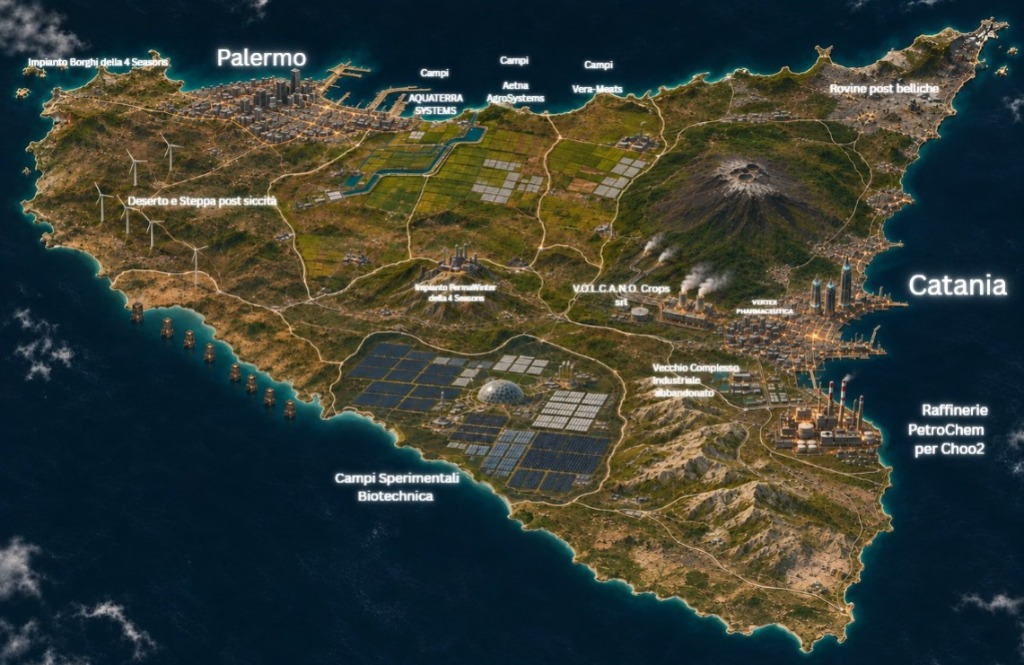
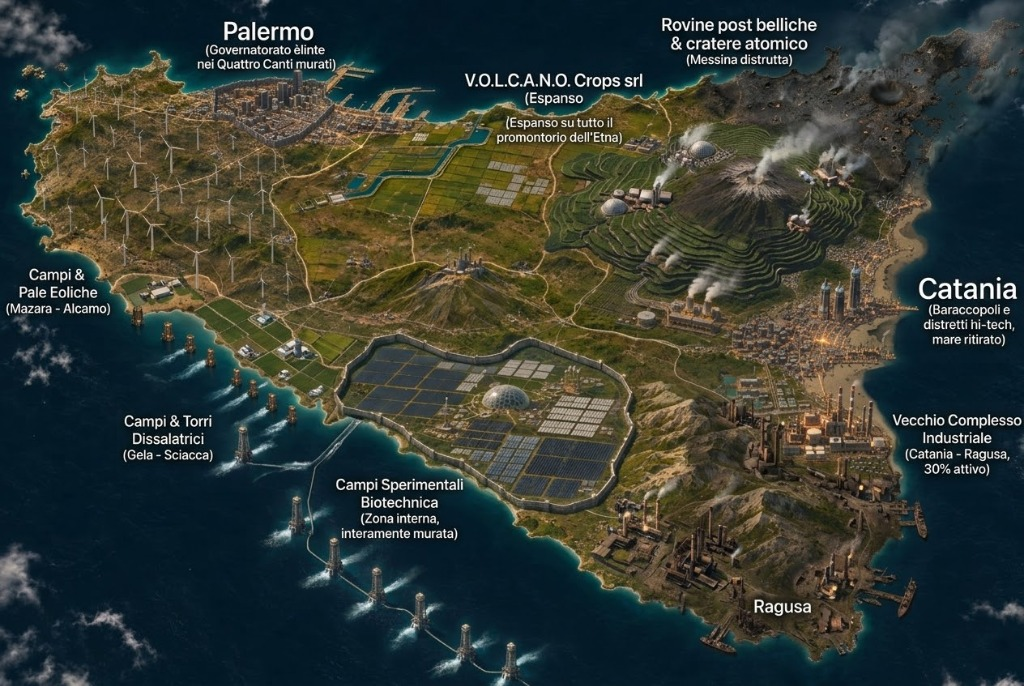
fix: aggiorna mappa Sicilia 2088 e legenda punti caldi

diff --git a/index.html b/index.html
@@ -1540,10 +1540,11 @@
             </div>
             <div class="p-2.5 rounded-sm bg-black/60 border border-white/10 space-y-1 text-[10px]">
               <div class="text-dive-orange font-bold uppercase">PUNTI CALDI SULLA MAPPA</div>
-              <div class="text-slate-300">• <strong class="text-white">Palermo / Aquaterra / Aetna</strong> — Campi agro-industriali</div>
-              <div class="text-slate-300">• <strong class="text-white">Catania / Vertex / PetroChem</strong> — Raffinerie Choo2 &amp; Pharma</div>
-              <div class="text-slate-300">• <strong class="text-white">Biotechnica &amp; PermaWinter</strong> — Campi sperimentali</div>
-              <div class="text-slate-300">• <strong class="text-white">Deserto &amp; Rovine Belliche</strong> — Zone Scav &amp; KK</div>
+              <div class="text-slate-300">• <strong class="text-white">Palermo</strong> — Governatorato élite nei Quattro Canti murati</div>
+              <div class="text-slate-300">• <strong class="text-white">Etna / V.O.L.C.A.N.O. Crops srl</strong> — Espanso sul promontorio</div>
+              <div class="text-slate-300">• <strong class="text-white">Messina</strong> — Rovine post belliche &amp; cratere atomico</div>
+              <div class="text-slate-300">• <strong class="text-white">Catania &amp; Ragusa</strong> — Baraccopoli, distretti hi-tech &amp; complesso 30% attivo</div>
+              <div class="text-slate-300">• <strong class="text-white">Biotechnica / Gela-Sciacca / Mazara</strong> — Campi murati, torri dissalatrici &amp; pale eoliche</div>
             </div>
             <div class="p-2.5 rounded-sm bg-black/60 border border-dive-purple/35 space-y-1 text-[10px]">
               <div class="text-dive-purple font-bold uppercase">FAZIONI ATTIVE</div>
